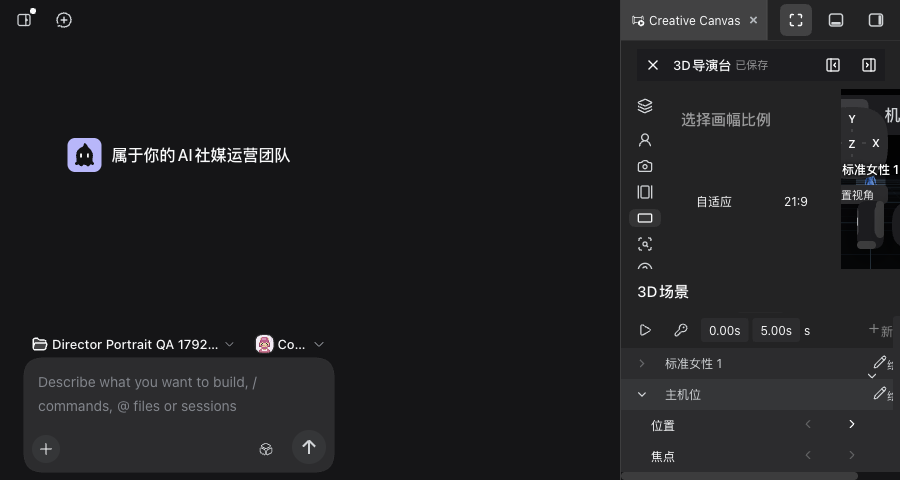
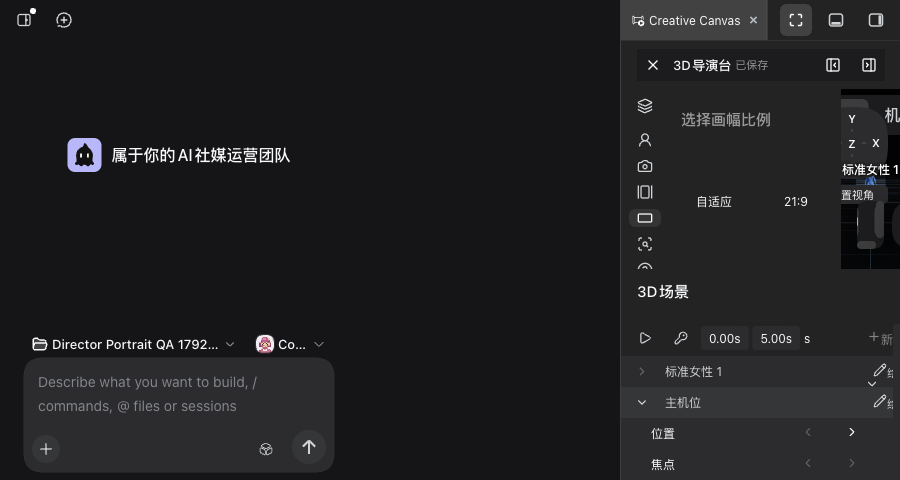
fix(workflow): 按独立评审修掉窄屏上限误伤高窗口，并收紧窄屏口径 (#3689)
评审高优先回归：max-height 收窄只挂在宽度断点上，900×1400 这类「窄而高」窗口被永久限制在
236px（store 允许 620，拖高会出现死区）。改为 @media (max-width:1023px) and (max-height:620px)，
只有窄且矮才收窄；新增 900×1400 档断言 max-height > 236（实测 840）作为回归锁。

其余按评审收紧：
- 栅格滚动容器补 max-lg:overflow-x-hidden，避免 overflow-y 非 visible 带出横向滚动条
- 窄屏断言口径与运行时统一：允许溢出但必须可滚动（原先测试要求「不溢出」、运行时允许滚动，
  两边不一致）；新增 900×400 档真正走到该分支（340 > 311）
- 补中列宽度非退化断言、锚点缺失改为命名失败、时间轴展开按 aria-pressed 判断并最多重试一次
  （避免把已展开误当未展开而收起）
- 测试删掉与本任务无关的 controls.css 断言；窄屏用例改写已在 spec「旧标准变更」逐条声明
- spec/README 记录取舍与已知约束：900px 视口下面板自身仅 279px 宽（左栏固定 220），
  中列宽 51–59px 属外壳既有约束，不在本任务范围

证据（acceptance-3289-rUrTPH）：900×560 / 480 / 400 / 1400 四档全绿，中列都保底 180、
时间轴 168/160/160/236、窄而高 max-height 840；宽屏 48/248/300/236 仍全绿；
默认 8 条仍绿（acceptance-3289-utERU1）；契约测试 11/11、workflow 2966/2966、
typecheck、build-director --check、anti-slop 3/3、verify:stages、test:gates 469/457/12（本机环境项）

diff --git a/specs/3689-director-narrow-grid.spec.md b/specs/3689-director-narrow-grid.spec.md
@@ -30,12 +30,12 @@
 - `plugins/omnimux-workflow/src/director/vendor/components/director-sequencer.tsx`
   - 内联样式去掉 `maxHeight`：内联会压过断点，宽屏 `max-height: 60vh` 移入 CSS。
 - `plugins/omnimux-workflow/src/director/vendor/director-layout.css`
-  - `.director-sequencer { max-height: 60vh; }`，并加 `@media (max-width: 1023px) { max-height: min(236px, 30vh); }`：窄屏矮视口下时间轴先收缩（`min-height: 160px` 保底）。
+  - `.director-sequencer { max-height: 60vh; }`，并加 `@media (max-width: 1023px) and (max-height: 620px) { max-height: min(236px, 30vh); }`：**只有窄且矮**才收窄（`min-height: 160px` 保底）。高度条件不可省——否则 900×1400 这类窄而高窗口会被永久限制在 236px（独立评审指出的回归）。
 - `plugins/omnimux-workflow/src/director/vendor/components/canvas-director-workbench.tsx`
-  - 栅格 max-lg 行定义给第 1 行保底（`max-lg:grid-rows-[minmax(180px,1fr)_auto]`）+ `max-lg:overflow-y-auto`：放不下时栅格滚动，内容可达而不是被 `overflow-hidden` 裁掉。
+  - 栅格 max-lg 行定义给第 1 行保底（`max-lg:grid-rows-[minmax(180px,1fr)_auto]`）+ `max-lg:overflow-y-auto max-lg:overflow-x-hidden`：放不下时栅格滚动（并避免带出横向滚动条），内容可达而不是被 `overflow-hidden` 裁掉。
   - 右栏窄屏上限从 `max-lg:max-h-[40vh]` 收紧到 `30vh`，给画布与时间轴让位。
 - `scripts/director-acceptance-3289.mjs`
-  - `DIRECTOR_MEASURE=1` 时追加 `layout-narrow-thresholds`：用 CDP `Emulation.setDeviceMetricsOverride` 依次切到 900×560 与 900×480（ego 的 Page 没有 `setViewportSize`），每次展开时间轴后量中列高度、时间轴高度、右栏底边与时间轴顶边、栅格 `overflow-y`/`scrollHeight`/`clientHeight`；断言中列 ≥180、时间轴 ∈[160,236]、无重叠、「内容超高时必须可滚动」；留 `layout-narrow-560.png`/`layout-narrow-480.png` 与实测值，最后清除覆盖继续。
+  - `DIRECTOR_MEASURE=1` 时追加 `layout-narrow-thresholds`：用 CDP `Emulation.setDeviceMetricsOverride` 依次切四档（ego 的 Page 没有 `setViewportSize`）——900×560、900×480、900×400（保证走到「溢出但可滚动」分支）、900×1400（窄而高反例，上限不得被收窄）；每档展开时间轴（按 `aria-pressed` 判断，避免误收起，最多重试一次）后量中列高/宽、时间轴高与其 `max-height`、右栏底边与时间轴顶边、栅格 `overflow-y`/`scrollHeight`/`clientHeight`；断言中列 ≥180、中列宽度 >0、时间轴 ∈[160,236]、无重叠、「内容超高时必须可滚动」、窄而高 `max-height > 236`；锚点缺失时给命名失败；留四张截图与实测值，最后清除覆盖继续。
   - 宽屏 `layout-thresholds` 口径不变。
 - 证据落 `docs/evidence/director-narrow-3689/`。
 
@@ -46,15 +46,32 @@
   - 必须改的理由：本任务给测量变体追加了窄屏断言 `layout-narrow-thresholds`（放在断言列表末尾，避免切视口影响功能步骤），`expected` 变成多行三元表达式，旧的整串匹配不再成立；这不是放宽标准，而是断言点随实现一起前移。
   - 新期望证据：改为正则匹配新的 `expected` 组合（`layout-thresholds` 紧跟入口断言、`layout-narrow-thresholds` 在末尾、`MEASURE` 为假时回落 `baseExpected`），并新增两条窄屏用例（源码断点 + 真机证据）。实跑：该文件 11/11 通过。
 
+- `plugins/omnimux-workflow/tests/director-layout-contract.e2e.test.mjs` :: `窄屏断点：第 1 行保底 + 可滚动 + 右栏收紧（#3689）`
+  - 原断言：媒体查询正则只要求 `@media (max-width: 1023px)`，另有一条与本任务无关的 `controls.css 不应再有硬编码 50%`（#3682 的重复断言）。
+  - 必须改的理由：独立评审指出「只按宽度断点」会让 900×1400 这类窄而高的窗口永久失去 236px 以上的拖高范围，属真回归；实现已改为 `and (max-height: 620px)`，断言必须同步锁定高度条件；越界断言删除。
+  - 新期望证据：正则要求 `@media (max-width: 1023px) and (max-height: 620px)`；新增 `max-lg:overflow-x-hidden` 断言；删除 controls.css 越界断言。实跑 11/11。
+- `plugins/omnimux-workflow/tests/director-layout-contract.e2e.test.mjs` :: `真机证据：窄屏两档都保底、不重叠、不裁切（#3689）`
+  - 原断言：只校验 900×560 / 900×480 两档，且要求「该档位不应溢出」，与运行时「允许溢出但必须可滚动」的口径相反。
+  - 必须改的理由：口径必须与运行时一致（否则门禁放行的溢出会被测试判失败、而测试又读已提交 JSON，等于两边都测不准）；同时补 900×400（真正走到可滚动分支）与 900×1400（窄而高反例，上限不得被收窄）两档，并补中列宽度非退化断言。
+  - 新期望证据：四档逐项断言 + 溢出→必须可滚动 + 窄而高 `sequencerMaxHeight > 236`。实跑 11/11。
+
 ## 4. 非目标
 
 不重做窄屏信息架构；不改宽屏栅格数值；不动 3D 渲染与功能旅程断言。
 
 ## 5. 验收
 
-1. `DIRECTOR_MEASURE=1 DIRECTOR_REAL_UI=1 DIRECTOR_EGO_BROWSER=<ego-browser> DIRECTOR_FFMPEG=<ffmpeg> node scripts/director-acceptance-3289.mjs` 退出码 0，断言 10 条（原 8 条 + 宽屏 + 窄屏）。**已达成**：`acceptance-3289-2sEd3j`，900×560 行高 `180/115/168`（无滚动），900×480 行高 `180/43/160`（无滚动），两档中列都保底 180、时间轴 168/160、右栏底边 = 时间轴顶边。
+1. `DIRECTOR_MEASURE=1 DIRECTOR_REAL_UI=1 DIRECTOR_EGO_BROWSER=<ego-browser> DIRECTOR_FFMPEG=<ffmpeg> node scripts/director-acceptance-3289.mjs` 退出码 0，断言 10 条（原 8 条 + 宽屏 + 窄屏）。**已达成**：`acceptance-3289-ZdkEmd`。
+
+   | 视口 | 中列 | 时间轴 | 右栏 | max-height | 栅格 |
+   | --- | --- | --- | --- | --- | --- |
+   | 900×560 | 180 | 168 | 123 | 168 | 不溢出 |
+   | 900×480 | 180 | 160 | 51 | 144 | 不溢出 |
+   | 900×400 | 180 | 160 | 0 | 120 | 溢出且可滚动（340 > 311） |
+   | 900×1400（窄而高） | 655 | 236 | 高 | **840**（未被收窄） | 不溢出 |
+
 2. 修复前同命令在窄屏断言上失败（证据留档，说明断言不是摆设）。**已达成**：`acceptance-3289-1addQF`，900×560 实测行高 `11/224/236`、中列 11px，报 `middle column height: 实测 11 vs 期望 >= 180`。
-3. 极端取舍（记录在案）：900×480 时右栏被压到 43px（内部可滚动）；此时时间轴可一键折叠，折叠后右栏回到 30vh。画布保底 180 是刻意的优先级取舍。
+3. 取舍（记录在案）：画布保底 180 是刻意优先级——画布是主工作区，时间轴可一键折叠。900×400 时右栏被压到 0（栅格可滚动）；900×480 时 51px。另外 900px 视口下导演台面板自身只有 279px 宽（左栏固定 220），中列宽 51–59px——这是外壳面板宽度的既有约束，不在本任务范围，已如实记录在证据里。
 4. 默认（不设 `DIRECTOR_MEASURE`）仍是原 8 条、退出码 0。
 5. `pnpm --filter omnimux-workflow test`、`typecheck`、`build-director --check`、`verify:anti-slop`、`verify:stages` 全绿；契约测试补窄屏断点与真机证据断言。
 6. `git diff` 落在 `scripts/`、`specs/`、`plugins/omnimux-workflow/src/director`、`plugins/omnimux-workflow/tests/`、`docs/evidence/director-narrow-3689/`。

diff --git a/docs/evidence/director-narrow-3689/README.md b/docs/evidence/director-narrow-3689/README.md
@@ -19,12 +19,13 @@ node scripts/director-acceptance-3289.mjs
 | `before-narrow-thresholds.json` | 修复前 900×560：栅格行高 `11px 224px 236px`，中列（3D 画布）只剩 11px，时间轴仍占 236px |
 | `before-narrow-560.png` | 修复前的窄屏整屏截图（画布几乎不可见） |
 | `before-failure.json` | 该次失败明细：`middle column height: 实测 11 vs 期望 >= 180` |
-| `after-narrow-thresholds.json` | 修复后两档：900×560 行高 `180/115/168`、900×480 行高 `180/43/160`，两档都无滚动、无重叠 |
-| `after-narrow-560.png` / `after-narrow-480.png` | 修复后的窄屏截图 |
+| `after-narrow-thresholds.json` | 修复后四档：900×560 行高 `180/123/168`、900×480 `180/51/160`、900×400 `180/0/160`（溢出且可滚动 340>311）、900×1400 `655/高/236`（窄而高，max-height 840 未被收窄） |
+| `after-narrow-{560,480,400,1400}.png` | 修复后四档窄屏截图 |
 | `after-wide-thresholds.json` | 同一次运行里宽屏 `layout-thresholds`（48/248/300/236）仍全绿 |
 
-## 取舍
+## 取舍与已知约束
 
-- 画布保底 180px 是刻意优先级：3D 画布是主工作区，时间轴是可折叠辅助面板。
-- 900×480 时右栏被压到 43px（内部可滚动）；此时折叠时间轴即可把高度还给右栏（折叠后右栏回到 30vh）。
-- 放不下时栅格改为可纵向滚动（`max-lg:overflow-y-auto`），而不是让内容被 `overflow-hidden` 裁掉。
+- 画布保底 180px 是刻意优先级：3D 画布是主工作区，时间轴是可折叠辅助面板；折叠时间轴即可把高度还给右栏。
+- 收窄上限只在「窄且矮」（`max-width:1023px and max-height:620px`）生效；900×1400 这类窄而高窗口保持 60vh（实测 max-height 840），可继续拖高。
+- 放不下时栅格改为可纵向滚动（`max-lg:overflow-y-auto max-lg:overflow-x-hidden`），而不是让内容被 `overflow-hidden` 裁掉；900×400 正是走到该分支的档位。
+- 已知既有约束（不在本任务范围）：900px 视口下导演台面板自身只有 279px 宽（左栏固定 220），中列宽仅 51–59px；这是外壳面板宽度决定，本任务只保证高度不被压塌。
